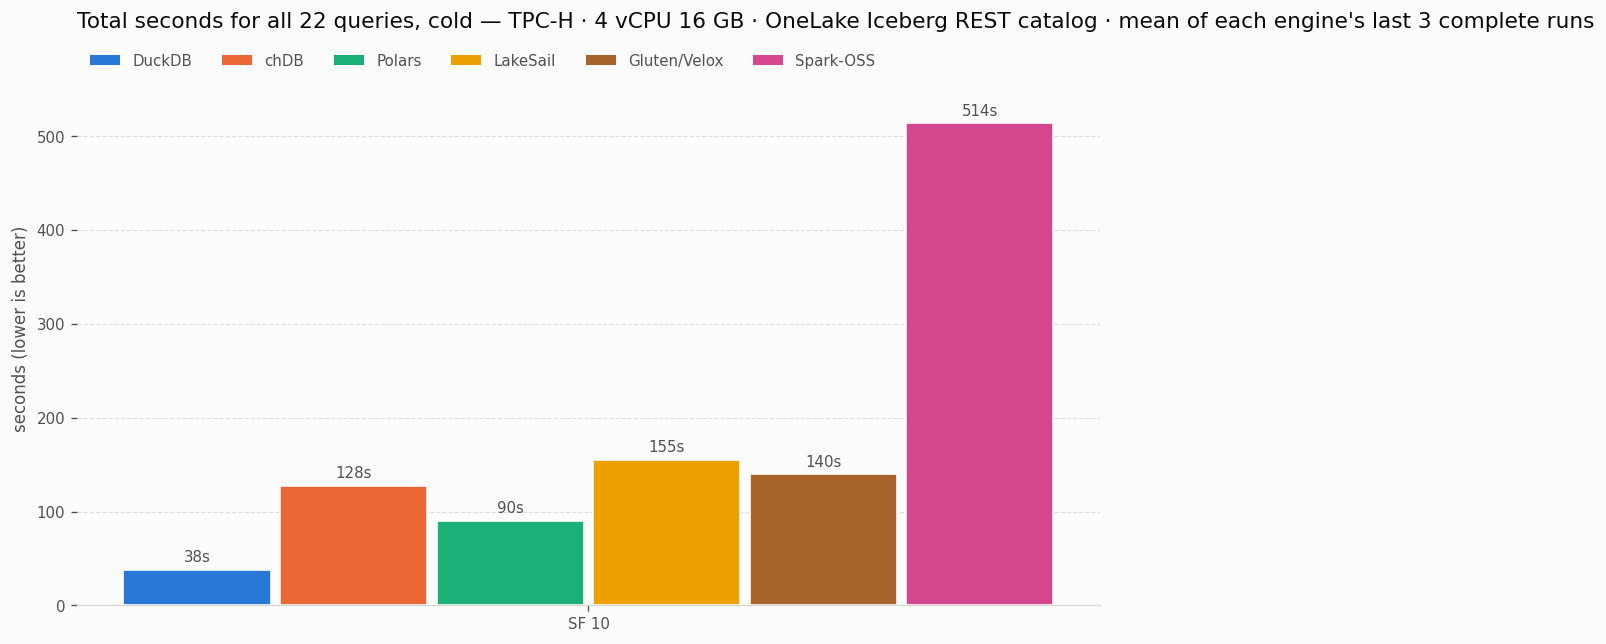
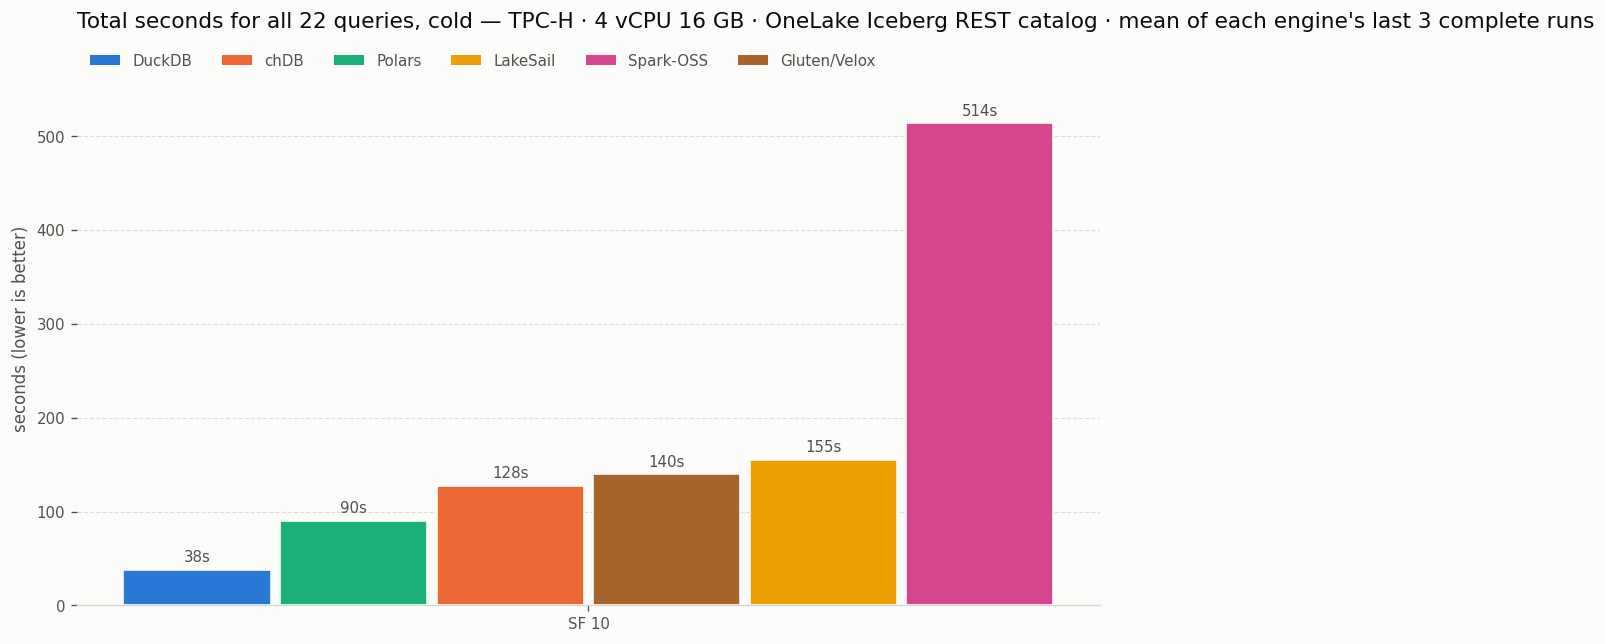
Totals chart: bars ordered fastest first within each scale

Changed region(s): [[0.1557, 0.6832, 0.5604, 0.9627], [0.3736, 0.0621, 0.5604, 0.1242]]

diff --git a/bench/tpch/charts.py b/bench/tpch/charts.py
@@ -290,10 +290,7 @@ def totals_by_sf(
     data = {(engine, sf): (dur, n) for engine, sf, dur, n in rows}
     if not data:
         return []
-    # Palette order, except Spark-OSS goes LAST: it is the engine most often missing at the big
-    # scales (hours per pass), and last is where its absence leaves nothing out of place.
-    order = sorted(ENGINES, key=lambda e: e == "pyspark_iceberg")
-    engines = [e for e in order if any(k[0] == e for k in data)]
+    engines = [e for e in ENGINES if any(k[0] == e for k in data)]
     shown = [s for s in sfs if any(k[1] == s for k in data)]
     width = 0.8 / len(engines)
     top = max(dur for dur, _ in data.values())
@@ -302,9 +299,9 @@ def totals_by_sf(
     for theme in THEMES.values():
         fig, ax = plt.subplots(figsize=(max(11, 2.2 * len(shown) + 0.5 * len(engines)), 6))
         for group, sf in enumerate(shown):
-            # PACKED PER SCALE: only the engines with a bar here, centred on the tick, so an
-            # engine missing at this scale leaves no hole. Bar width stays fixed across groups.
-            present = [e for e in engines if (e, sf) in data]
+            # FASTEST FIRST within each scale, and only the engines with a bar here, centred on
+            # the tick -- so a missing engine leaves no hole. Colour, not position, says which.
+            present = sorted((e for e in engines if (e, sf) in data), key=lambda e: data[(e, sf)])
             for slot, engine in enumerate(present):
                 dur, n = data[(engine, sf)]
                 x = group + (slot - (len(present) - 1) / 2) * width
